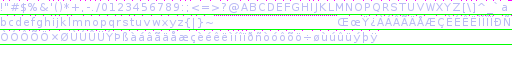
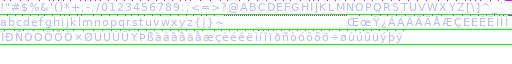
Replace some fonts to add cyrillic language support.
A russian translation will soon be available. We thus need fonts with
cyrillic glyphs.

Current fonts used for dialogs ('font05') and title screens ('parafont')
do not support cyrillic.

We were not able to find direct replacement of those fonts, mainly
because of license issues. We need an 'open' license granting us permission
to create and distribute our bitmap glyphs.

Note that we still need to find a TTF font to replace our cpuFont (based on
Chintzy CPU).

diff --git a/src/font.c b/src/font.c
@@ -52,7 +52,7 @@ static struct {
 		{ &Messagestat_Font, "small_blue.png",   { 0,  0, NULL } },
 		{ &Red_Font,         "font05_red.png",   { 0, -2, NULL } },
 		{ &Blue_Font,        "font05_white.png", { 0, -2, NULL } },
-		{ &FPS_Display_Font, "font05.png",       { 0, -2, NULL } },
+		{ &FPS_Display_Font, "font05_blue.png",  { 0, -2, NULL } },
 		{ &Messagered_Font,  "small_red.png",    { 0,  0, NULL } }
 };
 
